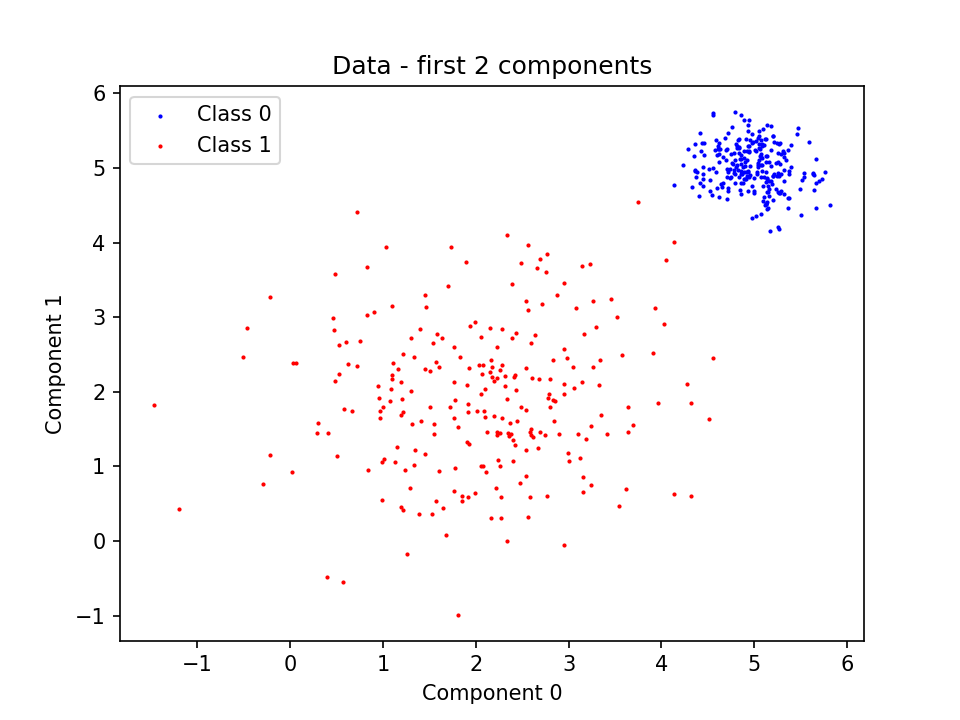
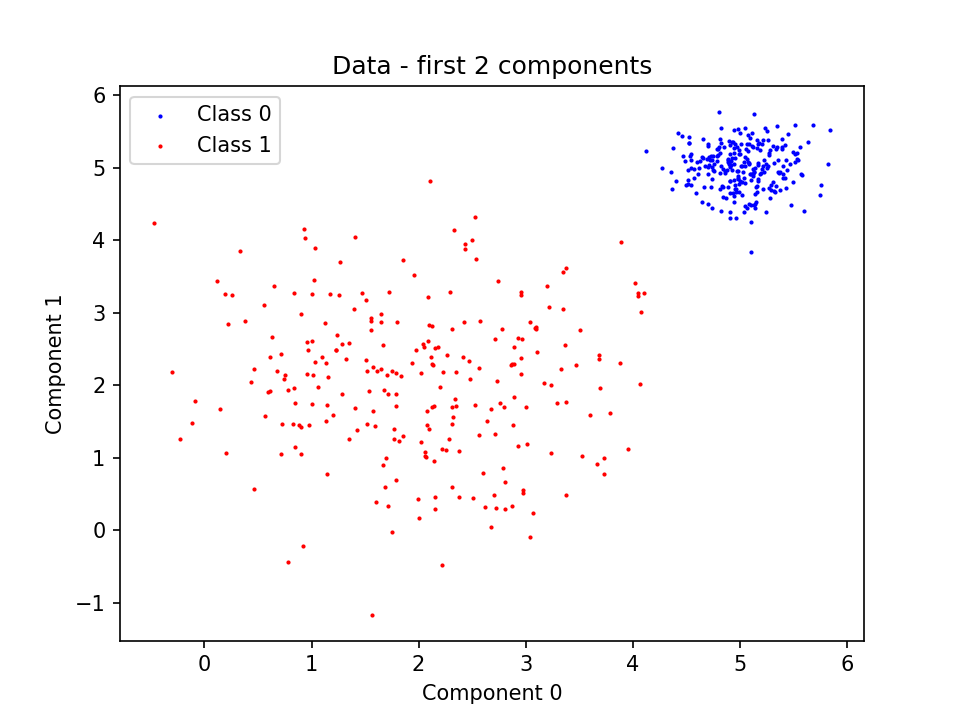
Generate some more data

diff --git a/gaussian_params_2_classes.py b/gaussian_params_2_classes.py
@@ -14,5 +14,24 @@ DISTRIB_PARAMS = [
         np.full((INPUT_DIM,), 2., dtype=np.float64), np.eye(INPUT_DIM, dtype=np.float64)
     ),
 
+    (
+        #
+        'exp1',
+        np.full((INPUT_DIM,), 2.5, dtype=np.float64), np.eye(INPUT_DIM, dtype=np.float64) * 0.2,
+        np.full((INPUT_DIM,), 4., dtype=np.float64), np.eye(INPUT_DIM, dtype=np.float64) * 0.2
+    ),
 
+    (
+        #
+        'exp2',
+        np.full((INPUT_DIM,), 2.5, dtype=np.float64), np.eye(INPUT_DIM, dtype=np.float64) * 0.2,
+        np.full((INPUT_DIM,), 4., dtype=np.float64), np.eye(INPUT_DIM, dtype=np.float64) * 0.5
+    ),
+
+    (
+        #
+        'exp3',
+        np.full((INPUT_DIM,), 3., dtype=np.float64), np.eye(INPUT_DIM, dtype=np.float64),
+        np.full((INPUT_DIM,), 3., dtype=np.float64), np.eye(INPUT_DIM, dtype=np.float64) * 0.05
+    ),
 ]
